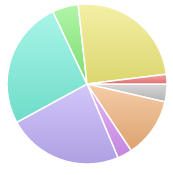
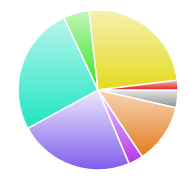
Updated screenshots. Not rendering arc border beyond 180 degrees

diff --git a/raphael.donutpiechart-1.0.js b/raphael.donutpiechart-1.0.js
@@ -9,7 +9,6 @@
     function DonutPieChart(paper, cx, cy, R1, opts) {
         opts = opts || {};
         var rad = (Math.PI / 180),
-            R2 = make3d ? R1 / 2 : R1,
             WHITE_COLOR = "#ffffff",
             data = opts.data || [],
             colors = opts.colors || [],
@@ -18,6 +17,7 @@
             sliceHandles = opts.sliceHandles || [],
             hrefs = opts.hrefs || [],
             make3d = (opts.make3d && typeof opts.make3d === 'object') || false,
+            R2 = make3d ? R1 / 2 : R1,
             size3d = (make3d && opts.make3d.size ? opts.make3d.size : 25),
             donut = (opts.donut && typeof opts.donut === 'object') || false,
             donutFill = (donut && opts.donut.fill ? opts.donut.fill : WHITE_COLOR),
@@ -34,9 +34,9 @@
             marker = opts.marker || "circle",
             growingOnLoad = opts.growingOnLoad || false,
             sliceHoverEffect = opts.sliceHoverEffect || "",
-            shiftDistance = 25,
+            shiftDistance = 35,
             total = 0,
-            animationDelay = 500,
+            animationDelay = 600,
             slices = paper.set(),
             markers = paper.set(),
             descriptions = paper.set(),
@@ -91,6 +91,11 @@
         }
 
         paper.customAttributes.slice = function (startx, starty, R1, startAngle, endAngle) {
+
+            if (startAngle === 0 && endAngle === 0) {
+                return [];
+            }
+
             var R2 = make3d ? R1 / 2 : R1,
                 x1 = startx + R1 * Math.cos(startAngle * rad),
                 x2 = startx + R1 * Math.cos(endAngle * rad),
@@ -99,9 +104,6 @@
                 largeArcFlag = (Math.abs(endAngle - startAngle) > 180),
                 sweepFlag = 1; // positive angle
 
-            if (startAngle === 0 && endAngle === 0) {
-                return [];
-            }
             return {
                 path: [
                     ["M", startx, starty, ],
@@ -113,6 +115,13 @@
         }
 
         paper.customAttributes.arc = function (startx, starty, R1, startAngle, endAngle) {
+
+            if (startAngle === 0 && endAngle === 0) {
+                return [];
+            } else if (startAngle < 180 && endAngle > 180) {
+                endAngle = 180;
+            }
+
             var R2 = make3d ? R1 / 2 : R1,
                 x1start = startx + R1 * Math.cos(startAngle * rad),
                 y1start = starty + R2 * Math.sin(startAngle * rad),
@@ -126,9 +135,6 @@
                 sweepFlagPositiveAngle = 1,
                 sweepFlagNegativeAngle = 0;
 
-            if (startAngle === 0 && endAngle === 0) {
-                return [];
-            }
             return {
                 path: [
                     ["M", x1start, y1start, ],
@@ -142,13 +148,14 @@
         }
 
         paper.customAttributes.wall = function (startx, starty, R1, angle) {
+            if (angle === 0) {
+                return [];
+            }
+
             var R2 = make3d ? R1 / 2 : R1,
                 x = startx + R1 * Math.cos(angle * rad),
                 y = starty + R2 * Math.sin(angle * rad);
 
-            if (angle === 0) {
-                return [];
-            }
             return {
                 path: [
                     ["M", startx, starty, ],

diff --git a/index.html b/index.html
@@ -83,11 +83,11 @@
         gradient: true,
         cursor: "pointer",
         marker: "rect",
-        make3d: {size: 30},
+        make3d: {size: 20},
         donut: {fill: "#fff", diameter: 0.5},
         legend: {labels: legendLabels, x: 290, y: 90, fontSize: 14, fontFamily: "Verdana"},
         growingOnLoad: true,
-        sliceHoverEffect: "shift-bounce"
+        sliceHoverEffect: "shift-smooth"
     });
 
 </script>

diff --git a/README.md b/README.md
@@ -59,7 +59,7 @@ var pie = paper.donutpiechart(cx, cy, r, opts);
 
 ##### Screenshots
 ![Pie](screenshots/pie.png?raw=true) Pie
-![Exploded Pie](screenshots/exploded-pie.png?raw=true) Exploded
+![3D Pie](screenshots/3d.png?raw=true) 3D Pie
 ![Donut](screenshots/donut.png?raw=true) Donut
 
 ![Gradient](screenshots/gradient.png?raw=true) Gradient
